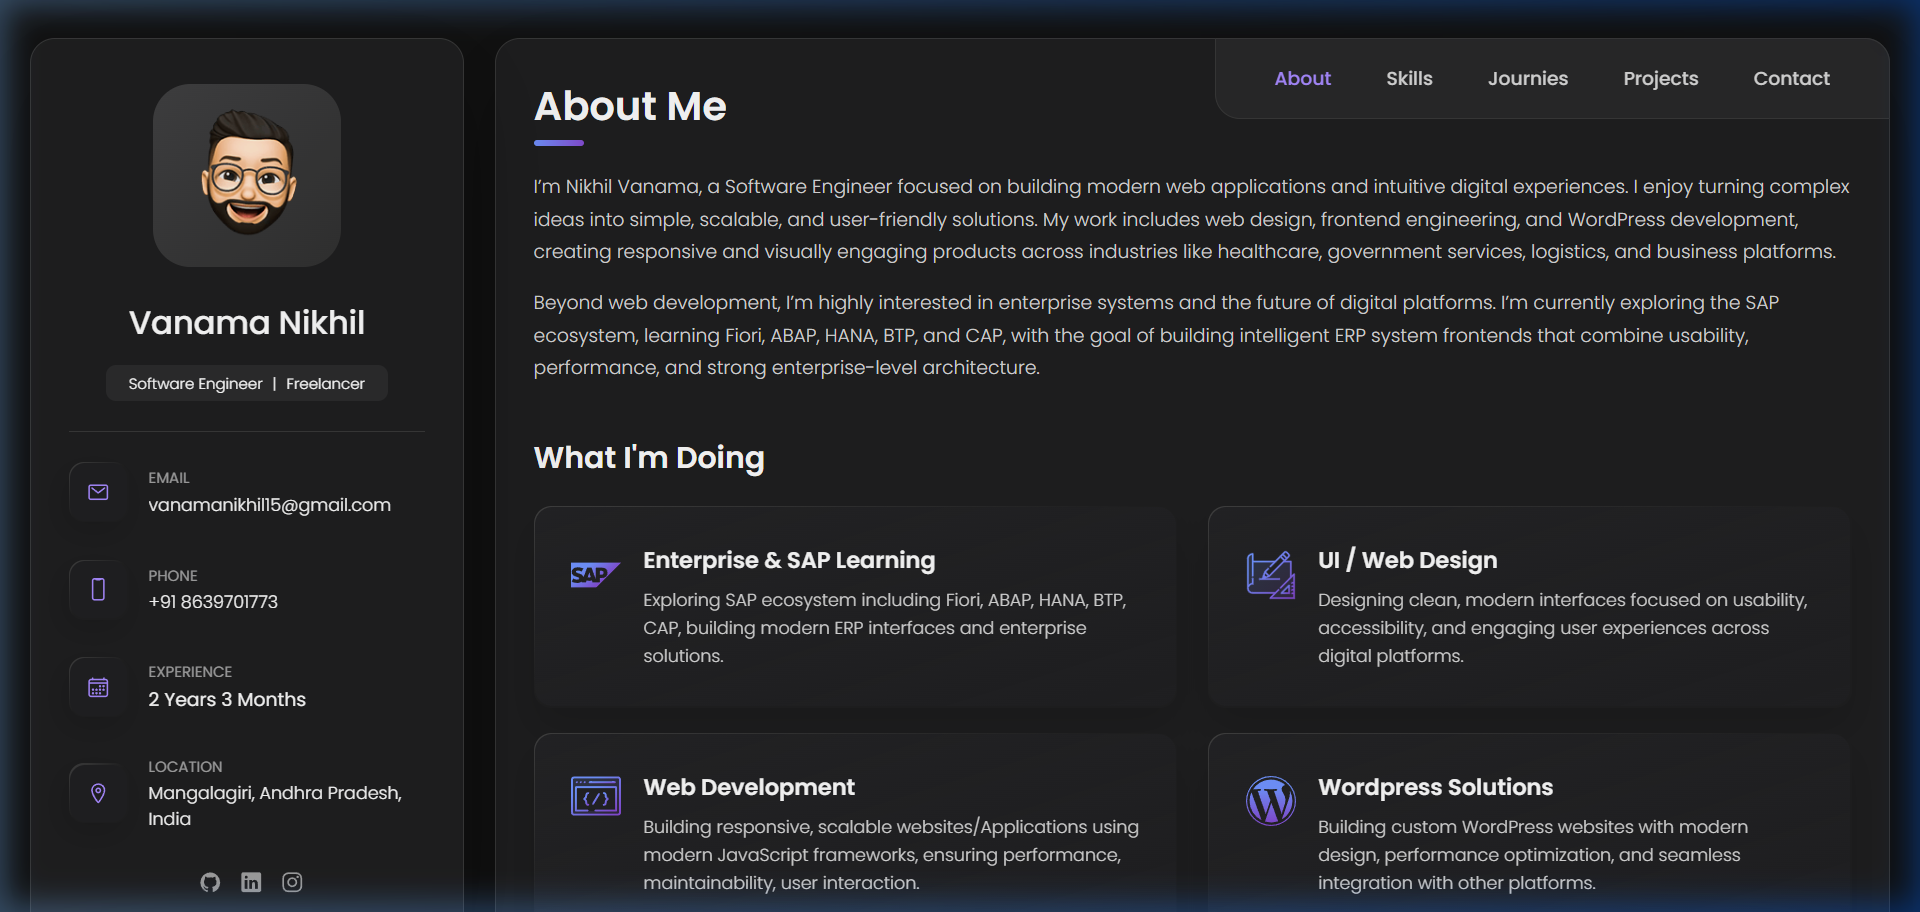
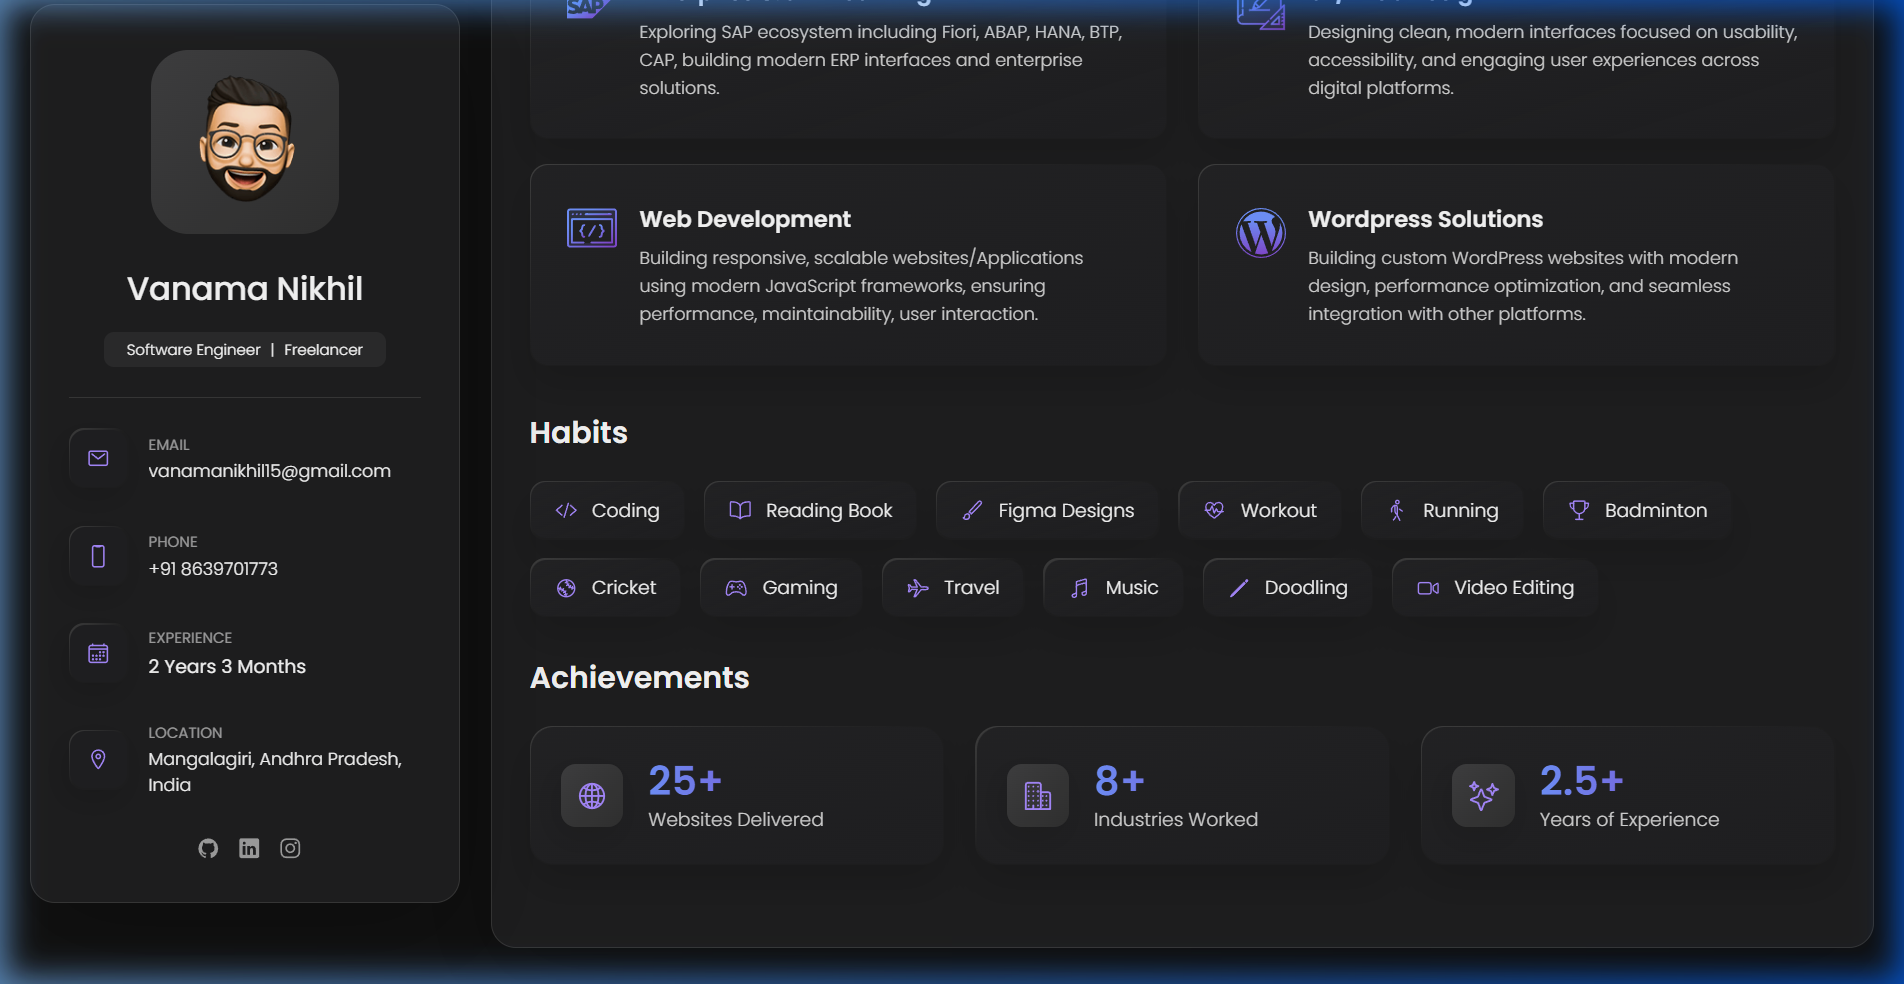
added acheivements section

diff --git a/assets/css/style.css b/assets/css/style.css
@@ -783,6 +783,96 @@ main {
 
 
 /**
+ * #achievements
+ */
+
+.achievements {
+  margin-bottom: 35px;
+}
+
+.achievements-list {
+  display: grid;
+  grid-template-columns: 1fr;
+  gap: 20px;
+}
+
+.achievement-item {
+  position: relative;
+  background: var(--border-gradient-onyx);
+  padding: 25px;
+  border-radius: 18px;
+  box-shadow: var(--shadow-2);
+  display: flex;
+  align-items: center;
+  gap: 20px;
+  z-index: 1;
+  transition: var(--transition-1);
+  overflow: hidden;
+}
+
+.achievement-item::before {
+  content: "";
+  position: absolute;
+  inset: 1px;
+  background: var(--bg-gradient-jet);
+  border-radius: inherit;
+  z-index: -1;
+}
+
+.achievement-item:hover {
+  transform: translateY(-5px);
+  box-shadow: var(--shadow-3);
+}
+
+.achievement-icon {
+  background: var(--bg-gradient-onyx);
+  color: var(--violet-crayola);
+  width: 50px;
+  height: 50px;
+  border-radius: 12px;
+  display: flex;
+  justify-content: center;
+  align-items: center;
+  font-size: 24px;
+  box-shadow: var(--shadow-1);
+}
+
+.achievement-number {
+  background: var(--text-gradient-blue);
+  background-clip: text;
+  -webkit-background-clip: text;
+  -webkit-text-fill-color: transparent;
+  font-size: 32px;
+  font-weight: var(--fw-600);
+  line-height: 1.2;
+}
+
+.achievement-text {
+  color: var(--light-gray);
+  font-size: var(--fs-6);
+  font-weight: var(--fw-300);
+}
+
+
+/**
+ * #RESPONSIVE
+ */
+
+@media (min-width: 580px) {
+  .achievements-list {
+    grid-template-columns: 1fr 1fr;
+    gap: 25px;
+  }
+}
+
+@media (min-width: 1024px) {
+  .achievements-list {
+    grid-template-columns: repeat(3, 1fr);
+  }
+}
+
+
+/**
  * #testimonials 
  */
 

diff --git a/index.html b/index.html
@@ -308,6 +308,43 @@
           </ul>
         </section>
 
+        <!-- Achievements -->
+        <section class="achievements" data-aos="fade-up">
+          <h3 class="h3 service-title">Achievements</h3>
+
+          <ul class="achievements-list">
+            <li class="achievement-item">
+              <div class="achievement-icon">
+                <ion-icon name="globe-outline"></ion-icon>
+              </div>
+              <div class="achievement-content">
+                <h4 class="achievement-number">25+</h4>
+                <p class="achievement-text">Websites Delivered</p>
+              </div>
+            </li>
+
+            <li class="achievement-item">
+              <div class="achievement-icon">
+                <ion-icon name="business-outline"></ion-icon>
+              </div>
+              <div class="achievement-content">
+                <h4 class="achievement-number">8+</h4>
+                <p class="achievement-text">Industries Worked</p>
+              </div>
+            </li>
+
+            <li class="achievement-item">
+              <div class="achievement-icon">
+                <ion-icon name="sparkles-outline"></ion-icon>
+              </div>
+              <div class="achievement-content">
+                <h4 class="achievement-number">2.5+</h4>
+                <p class="achievement-text">Years of Experience</p>
+              </div>
+            </li>
+          </ul>
+        </section>
+
 
         <!-- Testimonials -->
 
